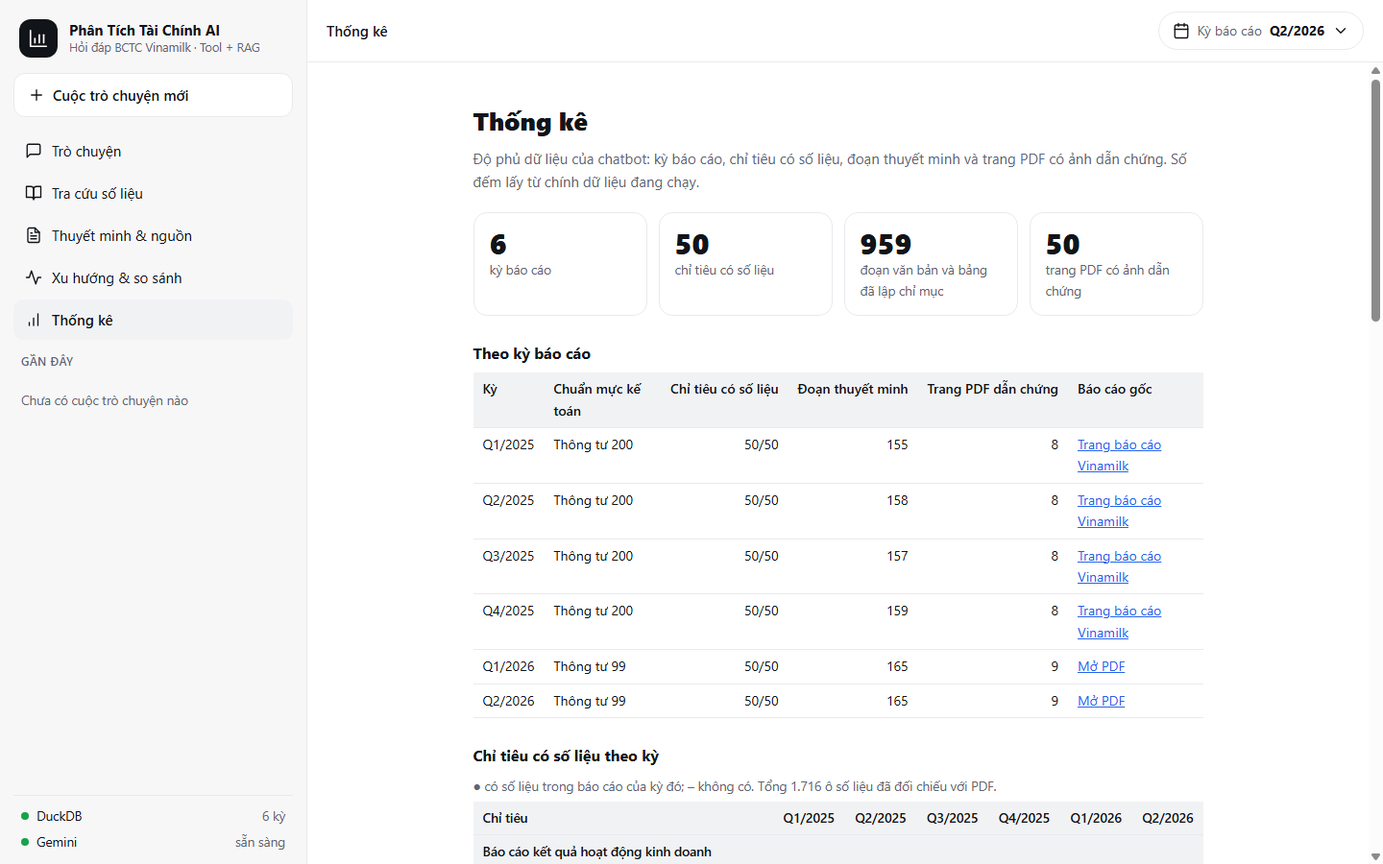
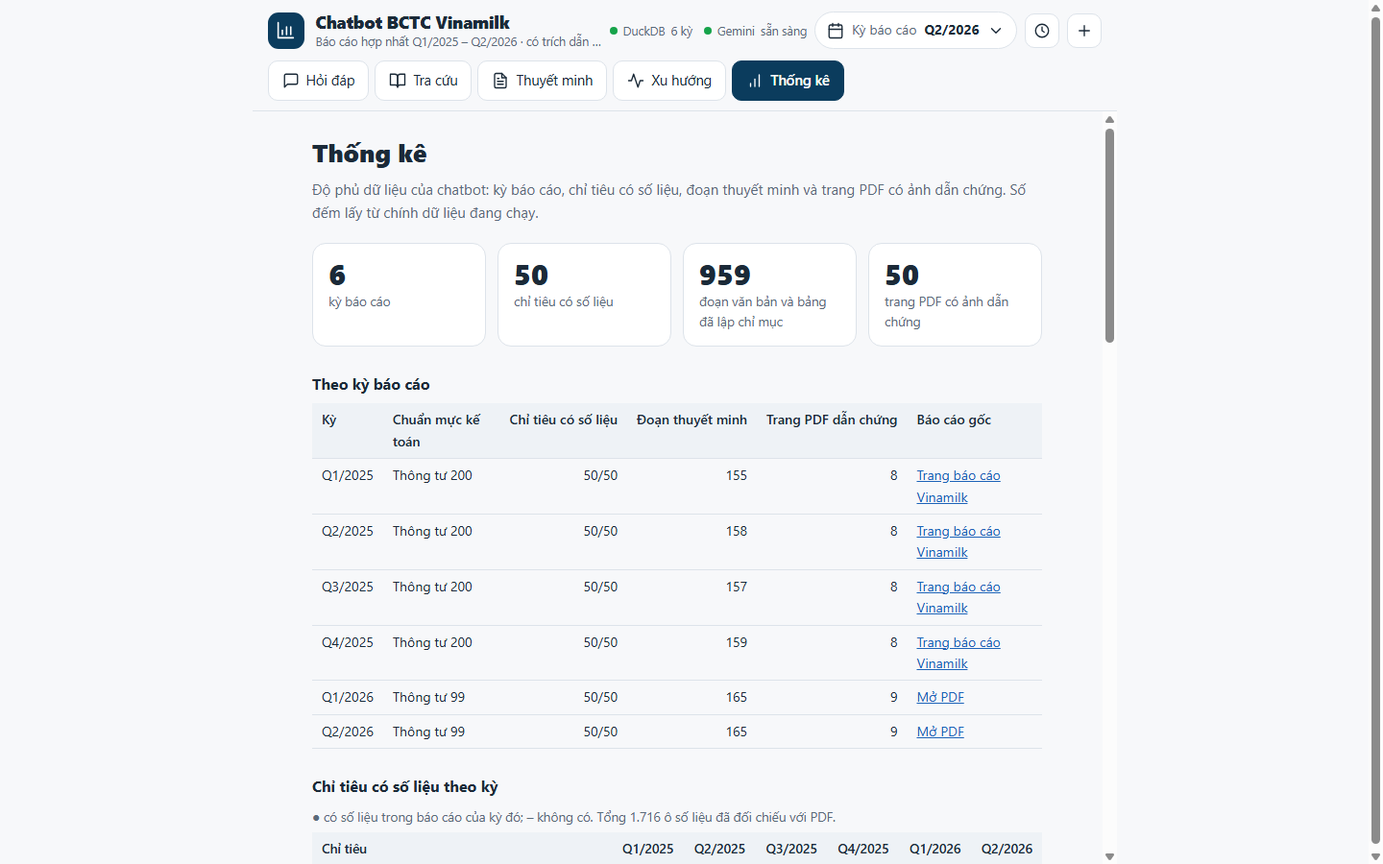
Giao dien gon mot cot theo ban cu: dau trang + the chuc nang, bo thanh ben
- Dau trang: ten, chi bao DuckDB/Gemini, ky bao cao, hop "Gan day", cuoc tro chuyen moi
- Thanh 5 the (Hoi dap, Tra cuu, Thuyet minh, Xu huong, Thong ke); man hinh chao co 4 loi tat va cau goi y dang vien
- Bang mau xanh dam cua ban cu, che do toi, the cuon ngang tren dien thoai
- Bo ngan keo/inert/lop phu; cap nhat README, docs/CHANGES.md va anh chup

diff --git a/public/css/app.css b/public/css/app.css
@@ -1,13 +1,14 @@
   :root {
-    --bg:#ffffff; --side:#f7f7f8; --ink:#111418; --mute:#5f6672; --line:#e8eaed; --card:#ffffff; --soft:#f1f2f4;
-    --accent:#111418; --accent-ink:#ffffff; --user:#f1f2f4; --warn:#fff4e5; --warn-ink:#7a4a00; --err:#fdecec; --err-ink:#9b1c1c;
-    --ok:#16a34a; --bad:#dc2626; --focus:#2563eb; --hl:#e11d48; --shadow:0 1px 2px rgba(16,24,40,.04), 0 4px 16px rgba(16,24,40,.06);
+    color-scheme:light dark;
+    --bg:#f7f8fa; --ink:#1b2a38; --mute:#5b6b7a; --line:#dde3ea; --card:#ffffff; --soft:#eef2f6;
+    --accent:#0b3c5d; --accent-ink:#ffffff; --user:#e8f0f7; --warn:#fff4e5; --warn-ink:#7a4a00; --err:#fdecec; --err-ink:#9b1c1c;
+    --ok:#16a34a; --bad:#dc2626; --focus:#1d63b8; --hl:#e11d48; --shadow:0 1px 2px rgba(16,24,40,.05), 0 6px 20px rgba(16,24,40,.08);
     --font:Inter, ui-sans-serif, system-ui, -apple-system, "Segoe UI", Roboto, "Helvetica Neue", Arial, "Noto Sans", sans-serif;
   }
   @media (prefers-color-scheme: dark) {
-    :root { --bg:#0f1115; --side:#14171c; --ink:#eceef1; --mute:#9aa3af; --line:#262b33; --card:#171a20; --soft:#1e2229;
-      --accent:#eceef1; --accent-ink:#0f1115; --user:#1e2229; --warn:#3a2c10; --warn-ink:#ffd58a; --err:#3a1717; --err-ink:#ffb4b4;
-      --ok:#22c55e; --bad:#f87171; --focus:#60a5fa; --shadow:0 1px 2px rgba(0,0,0,.4), 0 4px 16px rgba(0,0,0,.35); }
+    :root { --bg:#0f1720; --ink:#e6edf3; --mute:#93a4b5; --line:#2a3947; --card:#16212d; --soft:#1d2a38;
+      --accent:#5aa6d6; --accent-ink:#0b1620; --user:#1d2f40; --warn:#3a2c10; --warn-ink:#ffd58a; --err:#3a1717; --err-ink:#ffb4b4;
+      --ok:#22c55e; --bad:#f87171; --focus:#7cb8ea; --shadow:0 1px 2px rgba(0,0,0,.4), 0 6px 20px rgba(0,0,0,.4); }
   }
   * { box-sizing:border-box; }
   html, body { height:100%; }
@@ -19,27 +20,42 @@
   .sr { position:absolute; width:1px; height:1px; overflow:hidden; clip:rect(0 0 0 0); white-space:nowrap; }
   [hidden] { display:none !important; }
 
-  /* ---- khung */
-  .app { display:grid; grid-template-columns:320px minmax(0,1fr); height:100vh; height:100dvh; }
-  .side { background:var(--side); border-right:1px solid var(--line); display:flex; flex-direction:column; min-height:0; padding:18px 14px 12px; gap:14px; }
-  .main { display:flex; flex-direction:column; min-width:0; min-height:0; }
-  .scrim { display:none; }
+  /* ---- khung: một cột như bản cũ; đầu trang + thanh chức năng luôn thấy, nội dung cuộn bên dưới */
+  .app { display:flex; flex-direction:column; height:100vh; height:100dvh; max-width:900px; margin:0 auto; }
+  .main { display:flex; flex-direction:column; flex:1; min-width:0; min-height:0; }
 
-  /* ---- thanh bên */
-  .brand { display:flex; align-items:center; gap:12px; padding:2px 6px; }
-  .logo { width:40px; height:40px; border-radius:12px; background:#111418; color:#fff; display:grid; place-items:center; flex:none; }
-  .logo .ic { width:22px; height:22px; }
-  @media (prefers-color-scheme: dark) { .logo { background:#eceef1; color:#0f1115; } }
-  .brand-name { font-weight:700; font-size:15px; line-height:1.25; }
-  .brand-sub { color:var(--mute); font-size:12.5px; line-height:1.35; }
-  .newchat { display:flex; align-items:center; gap:8px; width:100%; padding:10px 14px; border:1px solid var(--line); background:var(--card); border-radius:12px; font-weight:500; }
-  .newchat:hover { background:var(--soft); }
-  .nav { display:flex; flex-direction:column; gap:2px; }
-  .nav-item { display:flex; align-items:center; gap:10px; width:100%; padding:9px 12px; border:0; background:none; border-radius:10px; text-align:left; color:var(--ink); }
-  .nav-item:hover { background:var(--soft); }
-  .nav-item[aria-current="page"] { background:var(--soft); font-weight:600; }
-  .label { font-size:11.5px; letter-spacing:.06em; font-weight:600; color:var(--mute); padding:0 8px; }
-  .recent { list-style:none; margin:0; padding:0; overflow:auto; flex:1; min-height:60px; display:flex; flex-direction:column; gap:2px; }
+  .top { display:flex; align-items:center; gap:8px; padding:12px 16px 8px; }
+  .brand { display:flex; align-items:center; gap:12px; flex:1; min-width:0; }
+  .logo { width:38px; height:38px; border-radius:11px; background:var(--accent); color:var(--accent-ink); display:grid; place-items:center; flex:none; }
+  .logo .ic { width:21px; height:21px; }
+  .brand > div { min-width:0; }
+  .brand-name { margin:0; font-size:18px; font-weight:800; line-height:1.25; letter-spacing:-.01em; }
+  .brand-sub { color:var(--mute); font-size:12.5px; line-height:1.35; white-space:nowrap; overflow:hidden; text-overflow:ellipsis; }
+  .status { display:flex; gap:12px; font-size:12.5px; color:var(--mute); }
+  .ind { display:inline-flex; align-items:center; gap:6px; white-space:nowrap; }
+  .dot { width:8px; height:8px; border-radius:50%; background:var(--mute); flex:none; }
+  .dot.ok { background:var(--ok); } .dot.bad { background:var(--bad); }
+  .icon-btn { border:1px solid var(--line); background:var(--card); padding:8px; border-radius:10px; display:grid; place-items:center; }
+  .icon-btn:hover { background:var(--soft); }
+  .pill-wrap { position:relative; }
+  .pill { display:flex; align-items:center; gap:8px; padding:7px 12px; border:1px solid var(--line); background:var(--card); border-radius:999px; font-size:14px; }
+  .pill:hover { background:var(--soft); }
+  .pill .l { color:var(--mute); }
+  .menu { position:absolute; right:0; top:calc(100% + 6px); z-index:20; min-width:200px; margin:0; padding:6px; list-style:none; background:var(--card); border:1px solid var(--line); border-radius:14px; box-shadow:var(--shadow); }
+  .menu button { display:flex; width:100%; justify-content:space-between; gap:12px; border:0; background:none; padding:8px 12px; border-radius:8px; text-align:left; }
+  .menu button:hover { background:var(--soft); }
+  .menu button[aria-checked="true"] { font-weight:600; }
+  .hist { width:min(320px, 86vw); padding:8px; }
+
+  .tabs { display:flex; gap:6px; padding:4px 16px 10px; border-bottom:1px solid var(--line); overflow-x:auto; scrollbar-width:none; }
+  .tabs::-webkit-scrollbar { display:none; }
+  .tab { display:inline-flex; align-items:center; gap:7px; flex:none; padding:8px 14px; border:1px solid var(--line); background:var(--card); border-radius:10px; font-size:14.5px; }
+  .tab:hover { background:var(--soft); }
+  .tab[aria-current="page"] { background:var(--accent); color:var(--accent-ink); border-color:var(--accent); font-weight:600; }
+
+  /* ---- hội thoại gần đây (trong hộp thả xuống) */
+  .label { font-size:11.5px; letter-spacing:.06em; font-weight:600; color:var(--mute); padding:2px 8px 4px; }
+  .recent { list-style:none; margin:0; padding:0; max-height:50vh; overflow:auto; display:flex; flex-direction:column; gap:2px; }
   .recent-empty { color:var(--mute); font-size:13.5px; padding:6px 8px; }
   .conv { display:flex; align-items:center; gap:2px; border-radius:10px; }
   .conv:hover, .conv:focus-within, .conv.active { background:var(--soft); }
@@ -51,41 +67,24 @@
   .conv-act.confirm { opacity:1; color:var(--bad); font-size:12.5px; padding:4px 8px; font-weight:600; }
   .conv input { flex:1; min-width:0; margin:3px 4px; padding:5px 8px; border:1px solid var(--line); border-radius:8px; background:var(--card); }
   @media (hover:none) { .conv-act { opacity:.7; } }
-  .status { border-top:1px solid var(--line); padding-top:10px; display:flex; flex-direction:column; gap:6px; font-size:13.5px; }
-  .ind { display:flex; align-items:center; gap:8px; padding:0 8px; }
-  .dot { width:8px; height:8px; border-radius:50%; background:var(--mute); flex:none; }
-  .dot.ok { background:var(--ok); } .dot.bad { background:var(--bad); }
-  .ind .val { margin-left:auto; color:var(--mute); }
-
-  /* ---- thanh trên */
-  .top { display:flex; align-items:center; gap:10px; padding:12px 20px; border-bottom:1px solid var(--line); min-height:60px; }
-  .top-title { font-size:15px; font-weight:600; margin:0; flex:1; min-width:0; white-space:nowrap; overflow:hidden; text-overflow:ellipsis; }
-  .icon-btn { border:0; background:none; padding:8px; border-radius:10px; display:grid; place-items:center; }
-  .icon-btn:hover { background:var(--soft); }
-  .menu-btn { display:none; }
-  .pill-wrap { position:relative; }
-  .pill { display:flex; align-items:center; gap:8px; padding:8px 14px; border:1px solid var(--line); background:var(--card); border-radius:999px; font-size:14px; }
-  .pill:hover { background:var(--soft); }
-  .pill .l { color:var(--mute); }
-  .menu { position:absolute; right:0; top:calc(100% + 6px); z-index:20; min-width:200px; margin:0; padding:6px; list-style:none; background:var(--card); border:1px solid var(--line); border-radius:14px; box-shadow:var(--shadow); }
-  .menu button { display:flex; width:100%; justify-content:space-between; gap:12px; border:0; background:none; padding:8px 12px; border-radius:8px; text-align:left; }
-  .menu button:hover { background:var(--soft); }
-  .menu button[aria-checked="true"] { font-weight:600; }
 
   /* ---- vùng nội dung */
   .view { display:flex; flex-direction:column; flex:1; min-height:0; }
   .scroll { flex:1; overflow-y:auto; min-height:0; }
   .col { width:100%; max-width:800px; margin:0 auto; padding:0 20px; }
-  #welcome { padding-top:clamp(28px, 9vh, 96px); padding-bottom:16px; }
-  .w-title { font-size:clamp(28px, 4.2vw, 40px); line-height:1.2; font-weight:800; margin:0 0 12px; letter-spacing:-.01em; }
-  .w-desc { color:var(--mute); font-size:16px; margin:0 0 28px; max-width:640px; }
-  .cards { display:grid; grid-template-columns:1fr 1fr; gap:12px; }
-  .card-btn { display:flex; flex-direction:column; align-items:flex-start; gap:8px; text-align:left; padding:14px 16px; border:1px solid var(--line); background:var(--card); border-radius:14px; min-height:96px; }
-  .card-btn:hover { background:var(--soft); }
-  .tag { font-size:12px; color:#4b5563; background:var(--soft); border-radius:999px; padding:1px 10px; }
-  @media (prefers-color-scheme: dark) { .tag { color:var(--mute); background:var(--line); } }
-  .card-btn:hover .tag { background:var(--line); }
-  .stats { display:flex; flex-wrap:wrap; gap:6px 22px; margin-top:22px; color:var(--mute); font-size:14px; }
+  #welcome { padding-top:clamp(18px, 5vh, 48px); padding-bottom:12px; }
+  .w-title { font-size:clamp(24px, 4vw, 32px); line-height:1.2; font-weight:800; margin:0 0 8px; letter-spacing:-.01em; }
+  .w-desc { color:var(--mute); margin:0 0 18px; max-width:640px; }
+  .feats { display:grid; grid-template-columns:repeat(4, 1fr); gap:10px; margin-bottom:20px; }
+  .feat { display:flex; flex-direction:column; align-items:flex-start; gap:4px; text-align:left; padding:12px 14px; border:1px solid var(--line); background:var(--card); border-radius:12px; }
+  .feat:hover { background:var(--soft); border-color:var(--accent); }
+  .feat .ic { color:var(--accent); width:20px; height:20px; }
+  .feat b { font-size:14.5px; } .feat span { color:var(--mute); font-size:12.5px; line-height:1.4; }
+  .cards { display:flex; flex-wrap:wrap; gap:8px; }
+  .card-btn { display:inline-flex; align-items:center; gap:8px; text-align:left; padding:7px 14px; border:1px solid var(--line); background:var(--card); border-radius:14px; font-size:14px; }
+  .card-btn:hover { background:var(--soft); border-color:var(--accent); }
+  .tag { flex:none; font-size:11.5px; font-weight:600; color:var(--accent); background:var(--soft); border-radius:999px; padding:0 8px; }
+  .stats { display:flex; flex-wrap:wrap; gap:6px 22px; margin-top:20px; color:var(--mute); font-size:14px; }
   .stats b { color:var(--ink); font-weight:700; }
 
   /* ---- hội thoại */
@@ -161,7 +160,7 @@
   kbd { font:inherit; font-size:11.5px; border:1px solid var(--line); border-bottom-width:2px; border-radius:5px; padding:0 5px; background:var(--soft); }
 
   /* ---- tra cứu */
-  .page-title { font-size:26px; font-weight:800; margin:40px 0 6px; }
+  .page-title { font-size:26px; font-weight:800; margin:22px 0 6px; }
   .muted { color:var(--mute); margin:0 0 20px; }
   .form-row { display:flex; flex-wrap:wrap; gap:12px; align-items:flex-end; margin-bottom:16px; }
   .form-row label { display:flex; flex-direction:column; gap:4px; font-size:13px; color:var(--mute); }
@@ -172,15 +171,16 @@
   .out-card { border:1px solid var(--line); border-radius:14px; padding:14px 16px; background:var(--card); white-space:pre-wrap; overflow-wrap:anywhere; }
 
   /* ---- điện thoại / máy tính bảng */
-  @media (max-width:900px) {
-    .app { grid-template-columns:1fr; }
-    .side { position:fixed; inset:0 auto 0 0; width:min(320px, 86vw); z-index:40; transform:translateX(-100%); transition:transform .2s ease; box-shadow:var(--shadow); }
-    .side.open { transform:none; }
-    .scrim { position:fixed; inset:0; background:rgba(0,0,0,.4); z-index:30; }
-    .scrim.show { display:block; }
-    .menu-btn { display:grid; }
-    .cards { grid-template-columns:1fr; }
-    .top { padding:10px 12px; }
+  @media (max-width:720px) {
+    .top { padding:10px 12px 6px; flex-wrap:wrap; }
+    .brand { flex-basis:100%; order:-1; }
+    .brand-sub { white-space:normal; }
+    .status { flex:1; }
+    .status .val { position:absolute; width:1px; height:1px; overflow:hidden; clip:rect(0 0 0 0); }
+    .tabs { padding:4px 12px 8px; }
+    .feats { grid-template-columns:1fr 1fr; }
+    .cards { flex-direction:column; }
+    .card-btn { flex-direction:column; align-items:flex-start; gap:4px; width:100%; }
     .col { padding:0 14px; }
     .pill .l { display:none; }
     .cv { height:210px; }

diff --git a/public/index.html b/public/index.html
@@ -18,6 +18,7 @@
   <symbol id="i-stats" viewBox="0 0 24 24"><line x1="12" x2="12" y1="20" y2="10"/><line x1="18" x2="18" y1="20" y2="4"/><line x1="6" x2="6" y1="20" y2="16"/></symbol>
   <symbol id="i-cal" viewBox="0 0 24 24"><rect x="3" y="4" width="18" height="18" rx="2"/><path d="M16 2v4M8 2v4M3 10h18"/></symbol>
   <symbol id="i-down" viewBox="0 0 24 24"><path d="m6 9 6 6 6-6"/></symbol>
+  <symbol id="i-clock" viewBox="0 0 24 24"><circle cx="12" cy="12" r="9"/><path d="M12 7v5l3 2"/></symbol>
   <symbol id="i-plus" viewBox="0 0 24 24"><path d="M5 12h14M12 5v14"/></symbol>
   <symbol id="i-up" viewBox="0 0 24 24"><path d="m5 12 7-7 7 7M12 19V5"/></symbol>
   <symbol id="i-stop" viewBox="0 0 24 24"><rect x="6" y="6" width="12" height="12" rx="2" fill="currentColor"/></symbol>
@@ -34,39 +35,37 @@
 </svg>
 
 <div class="app" id="app">
-  <aside class="side" id="side" aria-label="Thanh bên">
+  <header class="top">
     <div class="brand">
       <span class="logo" aria-hidden="true"><svg class="ic"><use href="#i-bars"/></svg></span>
-      <div><div class="brand-name">Phân Tích Tài Chính AI</div><div class="brand-sub">Hỏi đáp BCTC Vinamilk · Tool + RAG</div></div>
+      <div><h1 class="brand-name">Chatbot BCTC Vinamilk</h1><div class="brand-sub">Báo cáo hợp nhất Q1/2025 – Q2/2026 · có trích dẫn trang PDF</div></div>
     </div>
-    <button class="newchat" id="new-chat" type="button"><svg class="ic" aria-hidden="true"><use href="#i-plus"/></svg>Cuộc trò chuyện mới</button>
-    <nav class="nav" aria-label="Chức năng">
-      <button class="nav-item" type="button" data-view="chat" aria-current="page"><svg class="ic" aria-hidden="true"><use href="#i-chat"/></svg>Trò chuyện</button>
-      <button class="nav-item" type="button" data-view="lookup"><svg class="ic" aria-hidden="true"><use href="#i-book"/></svg>Tra cứu số liệu</button>
-      <button class="nav-item" type="button" data-view="notes"><svg class="ic" aria-hidden="true"><use href="#i-doc"/></svg>Thuyết minh &amp; nguồn</button>
-      <button class="nav-item" type="button" data-view="trends"><svg class="ic" aria-hidden="true"><use href="#i-zigzag"/></svg>Xu hướng &amp; so sánh</button>
-      <button class="nav-item" type="button" data-view="stats"><svg class="ic" aria-hidden="true"><use href="#i-stats"/></svg>Thống kê</button>
-    </nav>
-    <div class="label" id="recent-label">GẦN ĐÂY</div>
-    <ul class="recent" id="recent" aria-labelledby="recent-label"></ul>
     <div class="status" aria-label="Trạng thái hệ thống">
-      <div class="ind"><span class="dot" id="dot-db" aria-hidden="true"></span>DuckDB<span class="val" id="val-db">…</span></div>
-      <div class="ind"><span class="dot" id="dot-ai" aria-hidden="true"></span>Gemini<span class="val" id="val-ai">…</span></div>
+      <span class="ind"><span class="dot" id="dot-db" aria-hidden="true"></span>DuckDB <span class="val" id="val-db">…</span></span>
+      <span class="ind"><span class="dot" id="dot-ai" aria-hidden="true"></span>Gemini <span class="val" id="val-ai">…</span></span>
     </div>
-  </aside>
-  <div class="scrim" id="scrim"></div>
+    <div class="pill-wrap">
+      <button class="pill" id="period-btn" type="button" aria-haspopup="menu" aria-expanded="false" aria-controls="period-menu">
+        <svg class="ic" aria-hidden="true"><use href="#i-cal"/></svg><span class="l">Kỳ báo cáo</span><strong id="period-label">Q2/2026</strong><svg class="ic" aria-hidden="true"><use href="#i-down"/></svg>
+      </button>
+      <ul class="menu" id="period-menu" role="menu" aria-label="Kỳ báo cáo" hidden></ul>
+    </div>
+    <div class="pill-wrap">
+      <button class="icon-btn" id="hist-btn" type="button" aria-haspopup="true" aria-expanded="false" aria-controls="hist-panel" aria-label="Cuộc trò chuyện gần đây" title="Gần đây"><svg class="ic"><use href="#i-clock"/></svg></button>
+      <div class="menu hist" id="hist-panel" hidden><div class="label" id="recent-label">GẦN ĐÂY</div><ul class="recent" id="recent" aria-labelledby="recent-label"></ul></div>
+    </div>
+    <button class="icon-btn" id="new-chat" type="button" aria-label="Cuộc trò chuyện mới" title="Cuộc trò chuyện mới"><svg class="ic"><use href="#i-plus"/></svg></button>
+  </header>
+
+  <nav class="tabs" aria-label="Chức năng">
+    <button class="tab" type="button" data-view="chat" aria-current="page"><svg class="ic" aria-hidden="true"><use href="#i-chat"/></svg>Hỏi đáp</button>
+    <button class="tab" type="button" data-view="lookup"><svg class="ic" aria-hidden="true"><use href="#i-book"/></svg>Tra cứu</button>
+    <button class="tab" type="button" data-view="notes"><svg class="ic" aria-hidden="true"><use href="#i-doc"/></svg>Thuyết minh</button>
+    <button class="tab" type="button" data-view="trends"><svg class="ic" aria-hidden="true"><use href="#i-zigzag"/></svg>Xu hướng</button>
+    <button class="tab" type="button" data-view="stats"><svg class="ic" aria-hidden="true"><use href="#i-stats"/></svg>Thống kê</button>
+  </nav>
 
   <main class="main">
-    <header class="top">
-      <button class="icon-btn menu-btn" id="open-side" type="button" aria-label="Mở thanh bên" aria-controls="side" aria-expanded="false"><svg class="ic"><use href="#i-menu"/></svg></button>
-      <h1 class="top-title" id="top-title">Cuộc trò chuyện mới</h1>
-      <div class="pill-wrap">
-        <button class="pill" id="period-btn" type="button" aria-haspopup="menu" aria-expanded="false" aria-controls="period-menu">
-          <svg class="ic" aria-hidden="true"><use href="#i-cal"/></svg><span class="l">Kỳ báo cáo</span><strong id="period-label">Q2/2026</strong><svg class="ic" aria-hidden="true"><use href="#i-down"/></svg>
-        </button>
-        <ul class="menu" id="period-menu" role="menu" aria-label="Kỳ báo cáo" hidden></ul>
-      </div>
-    </header>
 
     <section class="view" id="view-chat" aria-label="Trò chuyện">
       <div class="scroll" id="scroll">
@@ -74,6 +73,8 @@
           <div id="welcome">
             <h2 class="w-title">Hỏi về báo cáo tài chính Vinamilk</h2>
             <p class="w-desc">Trả lời dựa trên báo cáo tài chính hợp nhất Q1/2025 – Q2/2026. Mọi con số lấy từ cơ sở dữ liệu, có trích dẫn trang PDF và đúng với kỳ báo cáo bạn chọn (<span id="desc-period">Q2/2026</span>).</p>
+            <div class="feats" id="feats"></div>
+            <div class="label">GỢI Ý CÂU HỎI</div>
             <div class="cards" id="cards"></div>
             <div class="stats" id="stats"></div>
           </div>

diff --git a/public/js/chat.js b/public/js/chat.js
@@ -108,7 +108,7 @@ function historyBefore(index) {                         // các cặp hỏi-đá
 
 function chatError(status, data) {
   if (status === 422) return "Câu hỏi chưa hợp lệ (tối đa 500 ký tự). Bạn rút gọn rồi thử lại nhé.";
-  if (status === 503) return "Trợ lý chưa sẵn sàng (có thể thiếu khóa Gemini). Bạn vẫn có thể dùng mục Tra cứu số liệu ở thanh bên.";
+  if (status === 503) return "Trợ lý chưa sẵn sàng (có thể thiếu khóa Gemini). Bạn vẫn có thể dùng thẻ Tra cứu hoặc Thuyết minh.";
   return errorText(status, data);
 }
 
@@ -155,7 +155,7 @@ function retry(msg) {                                   // bỏ câu trả lời
   ask(msg.question, true);
 }
 
-// ------------------------------------------------------------------ thanh bên: cuộc trò chuyện gần đây
+// ------------------------------------------------------------------ hộp "Gần đây": các cuộc trò chuyện đã lưu
 function renderRecent() {
   const list = $("recent"); list.replaceChildren();
   if (!convs.length) { list.append(h("li", { class: "recent-empty", text: "Chưa có cuộc trò chuyện nào" })); return; }

diff --git a/README.md b/README.md
@@ -34,37 +34,23 @@ tăng trưởng, tìm nội dung thuyết minh. Số liệu lấy từ PDF bằn
 
 ## Giao diện
 
-Giao diện tĩnh (HTML + CSS + module ES thuần, không bước build) có hai cột: thanh bên (cuộc trò chuyện mới, 5 mục menu, "Gần đây" lưu trong `localStorage`
-với đổi tên/xóa, hai chỉ báo DuckDB/Gemini từ `/api/health`) và vùng chính (thanh trên có chọn kỳ báo cáo). Có chế độ tối theo hệ thống,
-ngăn kéo thanh bên dưới 900 px, Lighthouse Accessibility 100.
+Giao diện tĩnh (HTML + CSS + module ES thuần, không bước build), một cột như bản cũ: đầu trang (tên, chỉ báo DuckDB/Gemini từ `/api/health`, chọn kỳ báo cáo,
+hộp "Gần đây" lưu trong `localStorage` có đổi tên/xóa, nút cuộc trò chuyện mới), thanh 5 thẻ chức năng (Hỏi đáp, Tra cứu, Thuyết minh, Xu hướng, Thống kê)
+luôn thấy, và nội dung bên dưới. Màn hình chào có 4 lối tắt tới các chức năng và 6 câu gợi ý. Có chế độ tối theo hệ thống, thẻ cuộn ngang trên điện thoại.
 
-| Mục | Làm gì | API |
-|---|---|---|
-| Trò chuyện | hỏi đáp qua Gemini; trả lời kèm thẻ Nguồn (trang PDF, ảnh trang có khung đỏ, ghi chú số suy ra/đã sửa OCR), biểu đồ đường cho câu hỏi nhiều kỳ, nút Dừng/Sao chép/Tạo lại/Thử lại, 👍/👎 | `/api/ask`, `/api/feedback` |
-| Tra cứu số liệu | một chỉ tiêu, một kỳ, đọc thẳng từ dữ liệu | `/api/lookup` |
-| Thuyết minh & nguồn | tìm đoạn thuyết minh theo nội dung (tùy chọn gồm bảng số liệu), mở PDF chính thức đúng trang, xem ảnh trang nếu có | `/api/notes` |
-| Xu hướng & so sánh | biểu đồ 6 kỳ (tối đa 3 chỉ tiêu), so sánh hai kỳ, phân rã biến động lợi nhuận/doanh thu | `/api/chart` |
-| Thống kê | độ phủ dữ liệu: số kỳ, chỉ tiêu, đoạn thuyết minh, trang PDF dẫn chứng; bảng theo kỳ và ma trận chỉ tiêu × kỳ | `/api/stats` |
-
-Bốn mục sau Trò chuyện đọc thẳng dữ liệu, không cần khóa Gemini. Hàng số liệu ở màn hình chào lấy từ `/api/stats`.
-Kỳ báo cáo được đưa vào câu hỏi dưới dạng gợi ý ngữ cảnh ("Nếu không nêu kỳ, hiểu là kỳ …") vì `/api/ask` chưa nhận tham số kỳ; các mục còn lại dùng kỳ làm bộ lọc thật.
-Bản giao diện cũ giữ ở `public/index.old.html`. Mã giao diện: `js/main.js` (điều phối), `chat.js`, `views/*.js` (từng màn hình), và các module dùng chung `api.js`, `charts.js`, `sources.js`, `markdown.js`, `dom.js`, `format.js`, `state.js`, `storage.js`, `config.js`.
-
-| Trước | Sau (sáng) | Sau (tối) |
-|---|---|---|
 | ![Giao diện cũ](docs/screenshots/truoc-giao-dien-cu.png) | ![Màn hình chào](docs/screenshots/sau-man-hinh-chao-sang.png) | ![Chế độ tối](docs/screenshots/sau-man-hinh-chao-toi.png) |
 
-| Trả lời kèm nguồn và ghi chú | Thuyết minh & nguồn |
+| Trả lời kèm nguồn | Thuyết minh & nguồn |
 |---|---|
-| ![Hỏi đáp](docs/screenshots/sau-hoi-dap-nguon-ghi-chu.png) | ![Thuyết minh](docs/screenshots/sau-thuyet-minh-nguon.png) |
+| ![Hỏi đáp](docs/screenshots/sau-tra-loi-co-nguon-sang.png) | ![Thuyết minh](docs/screenshots/sau-thuyet-minh-nguon.png) |
 
 | Xu hướng & so sánh | Thống kê |
 |---|---|
 | ![Xu hướng](docs/screenshots/sau-xu-huong-so-sanh.png) | ![Thống kê](docs/screenshots/sau-thong-ke.png) |
 
-| Điện thoại | Ngăn kéo |
+| Điện thoại: Hỏi đáp | Điện thoại: Xu hướng |
 |---|---|
-| ![Điện thoại](docs/screenshots/sau-dien-thoai-man-hinh-chao.png) | ![Ngăn kéo](docs/screenshots/sau-dien-thoai-ngan-keo.png) |
+| ![Điện thoại](docs/screenshots/sau-dien-thoai-man-hinh-chao.png) | ![Xu hướng](docs/screenshots/sau-dien-thoai-xu-huong.png) |
 
 ## Chạy chatbot
 
@@ -115,4 +101,12 @@ python src/ingest/build_db.py
 python -m src.rag.chunking
 python src/ingest/render_pages.py   # ảnh các trang PDF được trích dẫn -> public/pages (dẫn chứng bên cạnh câu trả lời)
 python src/ingest/locate_rows.py    # vị trí từng dòng số liệu trên ảnh trang (khung đỏ đánh dấu dòng được trích)
+## Cách chạy code khi tải từ github xuống hãy chạy theo code sau: 
+git clone https://github.com/quanle205/chatbot_Vinamilk.git
+cd chatbot_Vinamilk
+git checkout feature/redesign-ui
+python -m venv .venv
+.venv\Scripts\activate
+pip install -r requirements.txt
+## lấy key trên Gemini key rồi dán vào secrets.toml
 ```

diff --git a/docs/CHANGES.md b/docs/CHANGES.md
@@ -110,3 +110,11 @@ Kiểm tra tay (Chrome headless, Gemini thật, máy chủ cục bộ): câu xu 
 3. Phản hồi có lưu nguyên văn câu hỏi; người dùng có thể gõ thông tin cá nhân vào câu hỏi. Có thể cần dòng thông báo quyền riêng tư.
 4. Giao diện chỉ hỗ trợ **đậm**; Markdown khác (`###`, `*nghiêng*`) từ Gemini vẫn hiện nguyên ký tự (đã có từ trước, chưa sửa).
 5. Chưa đo chất lượng câu trả lời diễn giải của Gemini; chỉ kiểm tra số liệu và cấu trúc.
+
+## 6. Gọn lại giao diện theo bản cũ (một cột)
+
+- Bỏ thanh bên; quay về một cột như `public/index.old.html` nhưng giữ đủ chức năng: đầu trang gọn (tên, chỉ báo DuckDB/Gemini, kỳ báo cáo, "Gần đây", cuộc trò chuyện mới)
+  và thanh 5 thẻ luôn thấy (Hỏi đáp, Tra cứu, Thuyết minh, Xu hướng, Thống kê). Bảng màu xanh đậm của bản cũ; câu gợi ý dạng viên nhỏ; màn hình chào có 4 lối tắt tới chức năng.
+- Hộp "Gần đây" thay cho danh sách ở thanh bên; hộp này và menu kỳ không mở cùng lúc, Esc đóng cả hai. Không còn ngăn kéo/`inert`/lớp phủ nên `main.js` gọn hơn.
+- Không đổi backend, API hay dữ liệu. Chart.js vẫn chỉ tải khi có biểu đồ. Test `test_api` 25/25; Chrome thật: 5 thẻ, đổi kỳ, hỏi đáp thật, đổi tên trong hộp "Gần đây", chế độ tối,
+  390 px không tràn ngang, console sạch. Đã thay các ảnh trong `docs/screenshots/`.
